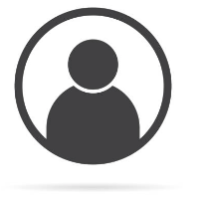
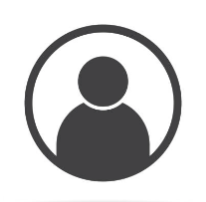
Profile pictures and welcome text.

Changed region(s): [[0.0583, 0.0297, 0.9029, 0.9505]]

diff --git a/src/main/resources/dark_theme.css b/src/main/resources/dark_theme.css
@@ -3,7 +3,6 @@
 }
 
 .text {
-    -fx-font-family: Arial;
     -fx-fill: white;
 }
 
@@ -47,10 +46,18 @@
     -fx-opacity: 0.33;
 }
 
+.circle {
+    -fx-stroke: linear-gradient(from 0.0% 0.0% to 100.0% 100.0%, #8a8a8a 0.0%, #979797 100.0%);
+}
+
 #logo {
     -fx-blend-mode: color-dodge;
 }
 
 #logInError {
     -fx-fill: #ff6565;
+}
+
+#welcomeText {
+    -fx-fill: white;
 }

diff --git a/src/main/java/org/example/javafxdb_sql_shellcode/App.java b/src/main/java/org/example/javafxdb_sql_shellcode/App.java
@@ -6,9 +6,12 @@ import javafx.application.Application;
 import javafx.fxml.FXMLLoader;
 import javafx.scene.Parent;
 import javafx.scene.Scene;
+import javafx.scene.image.Image;
 import javafx.stage.Stage;
 
 import java.io.*;
+import java.nio.file.Files;
+import java.nio.file.Paths;
 import java.util.Scanner;
 import javafx.scene.paint.Color;
 import javafx.util.Duration;
@@ -21,7 +24,7 @@ public class App extends Application {
 
     private static Scene scene;
     private static ConnDbOps cdbop;
-    private int currentUserId;
+    public Person currentPerson;
 
     private Stage primaryStage;
     private String theme = "light_theme.css";
@@ -90,13 +93,13 @@ public class App extends Application {
             scene.getStylesheets().add(theme);
             primaryStage.setScene(scene);
             primaryStage.show();
-            showLogIn();
+            showLogIn(3);
         } catch (Exception e) {
             e.printStackTrace();
         }
     }
 
-    private void showLogIn() {
+    private void showLogIn(double fadeInTime) {
         try {
 
             FXMLLoader fxmlLoader = new FXMLLoader(getClass().getResource("log_in.fxml"));
@@ -105,7 +108,7 @@ public class App extends Application {
 
             logInController.logInBtn.setOnAction(e->{
                 if(logInController.logInQuery()) {
-                    currentUserId= logInController.currentUserId;
+                    currentPerson=cdbop.getPerson(logInController.currentUserId);
                     showInterface();
                 }
             });
@@ -131,7 +134,7 @@ public class App extends Application {
 
             Scene currentScene = primaryStage.getScene();
             Parent currentRoot = currentScene.getRoot();
-            FadeTransition fadeOut = new FadeTransition(Duration.seconds(3), currentRoot);
+            FadeTransition fadeOut = new FadeTransition(Duration.seconds(fadeInTime), currentRoot);
             fadeOut.setFromValue(1);
             fadeOut.setToValue(0);
             fadeOut.setInterpolator(Interpolator.EASE_IN);
@@ -152,8 +155,11 @@ public class App extends Application {
             FXMLLoader fxmlLoader = new FXMLLoader(getClass().getResource("db_interface_gui.fxml"));
             Parent newRoot = fxmlLoader.load();
             GUIController guiController = fxmlLoader.getController();
-
-            guiController.currentUserId = currentUserId;
+            guiController.currentUserId = currentPerson.getId();
+            if(!currentPerson.getPhoto().isEmpty()) guiController.img_view.setImage(new Image(currentPerson.getPhoto()));
+            guiController.welcomeText.setText("Welcome " + (currentPerson.getFirstName().isEmpty()
+                    ?"User"
+                    :currentPerson.getFirstName()) + "!");
             //Update themes
             if (theme.equals("light_theme.css")) {
                 guiController.themeLight.setSelected(true);
@@ -175,6 +181,9 @@ public class App extends Application {
                 primaryStage.getScene().getStylesheets().add(theme);
                 guiController.themeLight.setSelected(false);
                 settingsSave("theme","light");
+            });
+            guiController.logOut.setOnAction(e->{
+                showLogIn(0);
             });
 
             Scene currentScene = primaryStage.getScene();

diff --git a/src/main/java/org/example/javafxdb_sql_shellcode/GUIController.java b/src/main/java/org/example/javafxdb_sql_shellcode/GUIController.java
@@ -10,10 +10,13 @@ import javafx.scene.control.cell.PropertyValueFactory;
 import javafx.scene.image.Image;
 import javafx.scene.image.ImageView;
 import javafx.scene.input.MouseEvent;
+import javafx.scene.shape.Circle;
+import javafx.scene.text.Text;
 import javafx.stage.FileChooser;
 import org.example.javafxdb_sql_shellcode.db.ConnDbOps;
 
 import java.io.File;
+import java.net.MalformedURLException;
 import java.net.URL;
 import java.util.ResourceBundle;
 
@@ -21,15 +24,12 @@ public class GUIController implements Initializable {
     private static ConnDbOps cdbop;
     public int currentUserId;
 
-    private final ObservableList<Person> data =
-            FXCollections.observableArrayList(
-                    new Person(1, "Jacob", "Smith", "jacob@email.com", "8002435243", "123 Drive"),
-                    new Person(2, "John", "Kyle", "john@email.com", "6319085943", "23 Ave")
-            );
     @FXML
     public CheckMenuItem themeLight;
     @FXML
     public CheckMenuItem themeDark;
+    public Text welcomeText;
+    public MenuItem logOut;
 
     @FXML
     TextField first_name, last_name, email, phone, address;
@@ -57,6 +57,8 @@ public class GUIController implements Initializable {
         tv_email.setCellValueFactory(new PropertyValueFactory<>("email"));
         tv_phone.setCellValueFactory(new PropertyValueFactory<>("phone"));
         tv_address.setCellValueFactory(new PropertyValueFactory<>("address"));
+
+        img_view.setClip(new Circle(45,45,45));
 
         updateGUI();
     }
@@ -97,11 +99,6 @@ public class GUIController implements Initializable {
     }
 
     @FXML
-    protected void logOut() {
-
-    }
-
-    @FXML
     protected void editRecord() {
         Person p= tv.getSelectionModel().getSelectedItem();
         cdbop.editUser(
@@ -110,7 +107,7 @@ public class GUIController implements Initializable {
                 email.getText(),
                 phone.getText(),
                 address.getText(),
-                "",
+                password.getText(),
                 ""
         );
         updateGUI();
@@ -126,13 +123,13 @@ public class GUIController implements Initializable {
 
 
     @FXML
-    protected void editImage() {
+    protected void editImage() throws MalformedURLException {
         File file= (new FileChooser()).showOpenDialog(img_view.getScene().getWindow());
         if(file!=null){
             img_view.setImage(new Image(file.toURI().toString()));
         }
 
-        cdbop.editUser(currentUserId, "","","","","",img_view.getImage().getUrl());
+        cdbop.editUser(currentUserId, "","","","","",file.toURI().toURL().toExternalForm());
     }
 
 
@@ -146,9 +143,5 @@ public class GUIController implements Initializable {
         email.setText(p.getEmail());
         phone.setText(p.getPhone());
         address.setText(p.getAddress());
-
     }
-
-
-
 }

diff --git a/src/main/java/org/example/javafxdb_sql_shellcode/db/ConnDbOps.java b/src/main/java/org/example/javafxdb_sql_shellcode/db/ConnDbOps.java
@@ -72,7 +72,7 @@ public class ConnDbOps {
         return hasRegistredUsers;
     }
 
-    public  void queryUserByName(String name) {
+    public void queryUserByName(String name) {
 
 
         try {
@@ -153,7 +153,7 @@ public class ConnDbOps {
     }
 
 
-    public  void deleteUser(int id) {
+    public void deleteUser(int id) {
 
         try {
             Connection conn = DriverManager.getConnection(DB_URL, USERNAME, PASSWORD);
@@ -228,17 +228,44 @@ public class ConnDbOps {
 
             String userPassword = "";
             while (resultSet.next()) {
-                userId=resultSet.getInt("id");
                 userPassword=resultSet.getString("password");
+                if (password.equals(userPassword) && !userPassword.isEmpty()) userId=resultSet.getInt("id");
             }
-            if (password.equals(userPassword) && !userPassword.isEmpty()) return userId;
-
             preparedStatement.close();
             conn.close();
         } catch (SQLException e) {
             e.printStackTrace();
         }
         return userId;
+    }
+
+    public Person getPerson(int id) {
+        Person person=new Person();
+        try {
+            Connection conn = DriverManager.getConnection(DB_URL, USERNAME, PASSWORD);
+            String sql = "SELECT * FROM users WHERE id = ?";
+            PreparedStatement preparedStatement = conn.prepareStatement(sql);
+            preparedStatement.setInt(1, id);
+
+            ResultSet resultSet = preparedStatement.executeQuery();
+
+            while (resultSet.next()) {
+                person.setId(id);
+                String name = resultSet.getString("name");
+                int index = name.indexOf(' ');
+                person.setFirstName(index!=-1?name.substring(0, index):name);
+                person.setLastName(index!=-1?name.substring(index + 1):"");
+                person.setEmail(resultSet.getString("email"));
+                person.setAddress(resultSet.getString("address"));
+                person.setPhone(resultSet.getString("phone"));
+                person.setPhoto(resultSet.getString("photo"));
+            }
+            preparedStatement.close();
+            conn.close();
+        } catch (SQLException e) {
+            e.printStackTrace();
+        }
+        return person;
     }
 
     public ObservableList<Person> dataAsList() {

diff --git a/src/main/java/org/example/javafxdb_sql_shellcode/Person.java b/src/main/java/org/example/javafxdb_sql_shellcode/Person.java
@@ -9,8 +9,16 @@ public class Person {
     private String address;
     private String phone;
     private String email;
+    private String photo;
 
     public Person() {
+        this.id = -1;
+        this.firstName = "";
+        this.lastName = "";
+        this.address = "";
+        this.phone = "";
+        this.email = "";
+        this.photo = "";
     }
 
     /**
@@ -29,6 +37,7 @@ public class Person {
         this.address = address;
         this.phone = phone;
         this.email = email;
+        this.photo = "";
     }
 
 
@@ -84,5 +93,11 @@ public class Person {
         this.email = email;
     }
 
+    public String getPhoto() {
+        return photo==null?"":photo;
+    }
+    public void setPhoto(String photo) {
+        this.photo = photo;
+    }
 
 }
